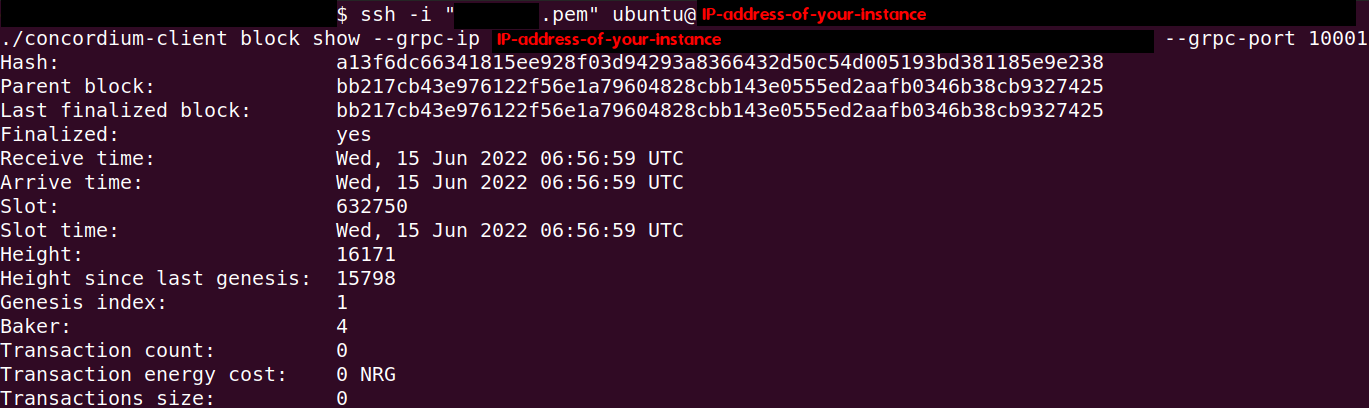
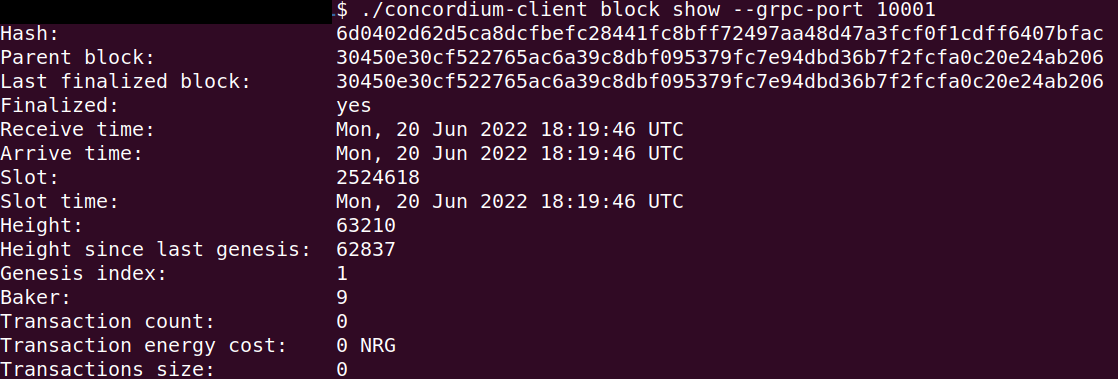
CHANGED: addressed comments

diff --git a/source/mainnet/smart-contracts/tutorials/piggy-bank/preparing.rst b/source/mainnet/smart-contracts/tutorials/piggy-bank/preparing.rst
@@ -181,21 +181,24 @@ This option explains how you can use the ``concordium-client`` tool locally on y
 
 **Disadvantage**: You have to use ssh with port forwarding when you run a command locally.
 
-Since you have a remote server your cloud provider usually gives you an option to ssh into it. Add the following port forwarding rule to your method to ssh into your instance. The port 10001 on your localhost is forwarded to the port 10001 on your instance.
+Since you have a remote server your cloud provider usually gives you an option to ssh into it. Add the following port forwarding rule to your method to ssh into your instance in terminal A. The port 10001 on your localhost is forwarded to the port 10001 on your instance.
 
 .. code-block:: console
 
-   $ssh -L localhost:10001:<IP-address-of-your-instance>:10001 <username>@<host>
+   $ssh -NL localhost:10001:<IP-address-of-your-instance>:10001 <username>@<host>
+
+.. image:: ./images/pb_tutorial_26.png
+   :width: 100 %
 
 .. note::
 
    Port 10001 is open by default on your testnet node to interact with it. Cloud providers often use ``ubuntu`` as the default <username> and the <IP-address-of-your-instance> as the default <host>.
 
-Go to the folder where you downloaded the ``concordium-client``. Check if everything is connected correctly by displaying the best/latest block.
+Go in another terminal B to the folder where you downloaded the ``concordium-client``. Check if everything is connected correctly by displaying the best/latest block.
 
 .. code-block:: console
 
-   $ssh <method-to-ssh-into-your-instance-given-by-your-cloud-provider> ./concordium-client block show --grpc-ip <IP-address-of-your-instance> --grpc-port 10001
+   $./concordium-client block show --grpc-port 10001
 
 You should see some block data output.
 
